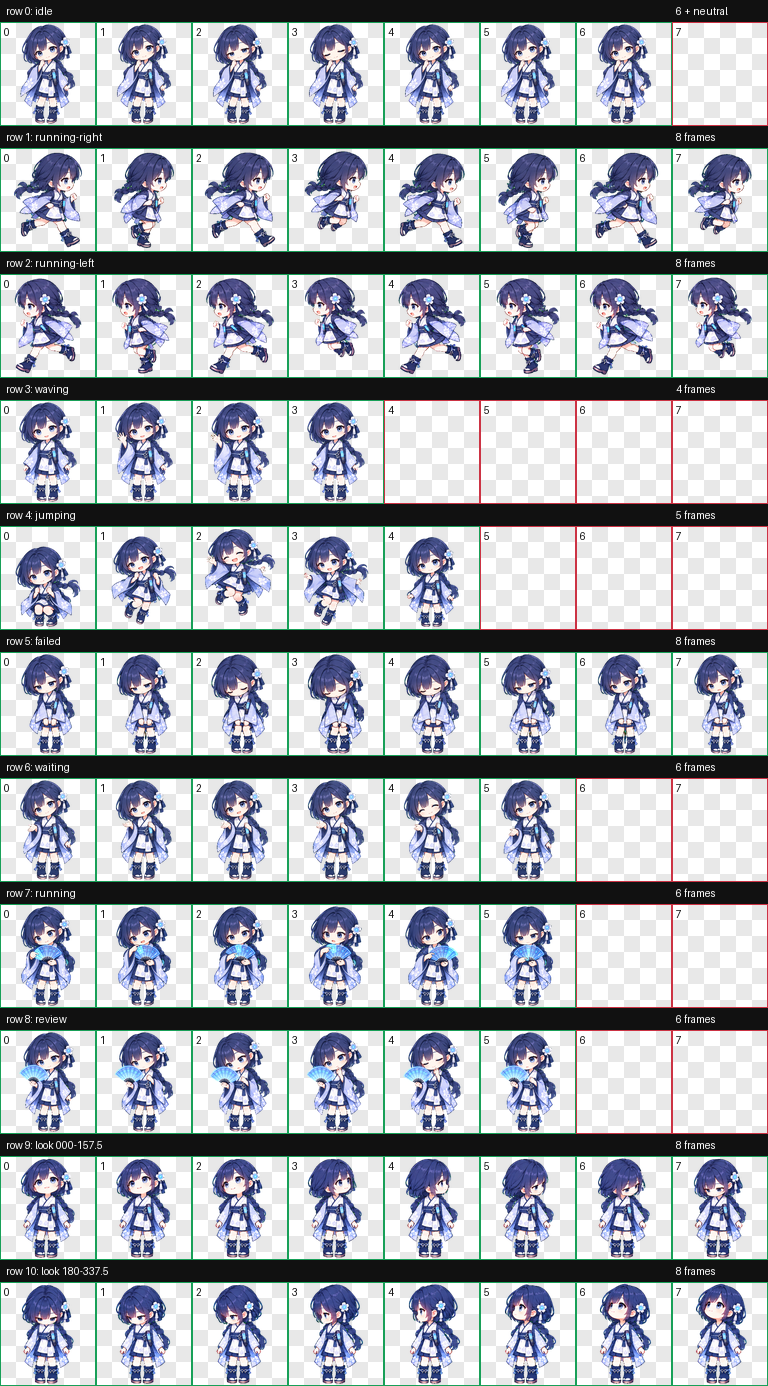
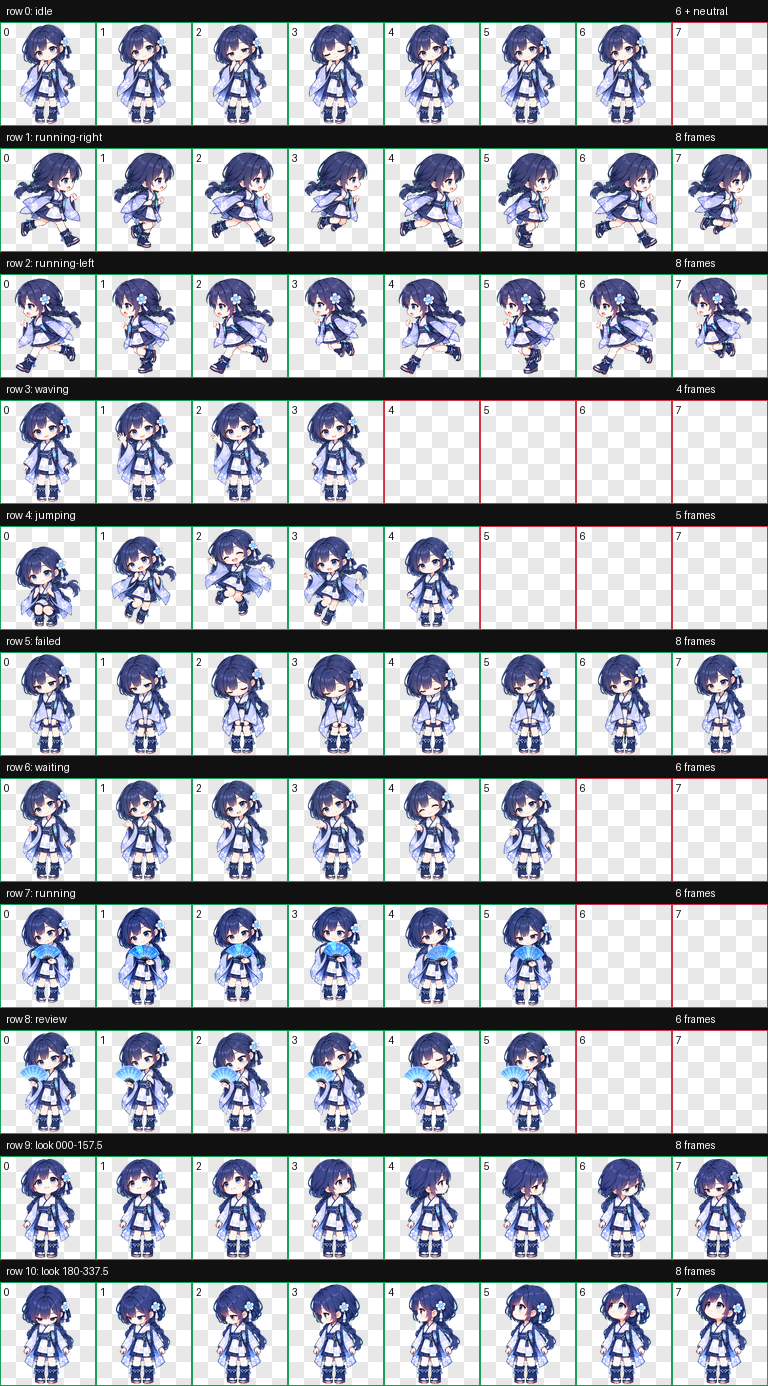
Update running fan animation

diff --git a/README.md b/README.md
@@ -84,8 +84,9 @@ Codexで `Refresh` → `Humea` → `Wake Pet` の順に選びます。
 - Standard actions: idle, running-right, running-left, waving, jumping, failed, waiting, running, review
 - Look directions: 16 directions at 22.5° intervals
 - Running/jumping extraction: shared stable slots preserve character scale and airborne whitespace
+- Non-directional `running`: closed-mouth six-frame fan loop; the fan correctly occludes the far-side hand and sleeve
 
-詳細は `qa/validation.json`、`qa/final-visual-qa.json`、`qa/motion-repair.json`、`qa/direction-semantics.json` を参照してください。修正後の動きは `qa/previews/` のGIFでも確認できます。
+詳細は `qa/validation.json`、`qa/final-visual-qa.json`、`qa/motion-repair.json`、`qa/direction-semantics.json` を参照してください。修正後の動きは `qa/previews/` のGIF（`running.gif` を含む）でも確認できます。
 
 スプライトが破損していないか確認する場合は、フォルダ直下で次を実行します。
 
